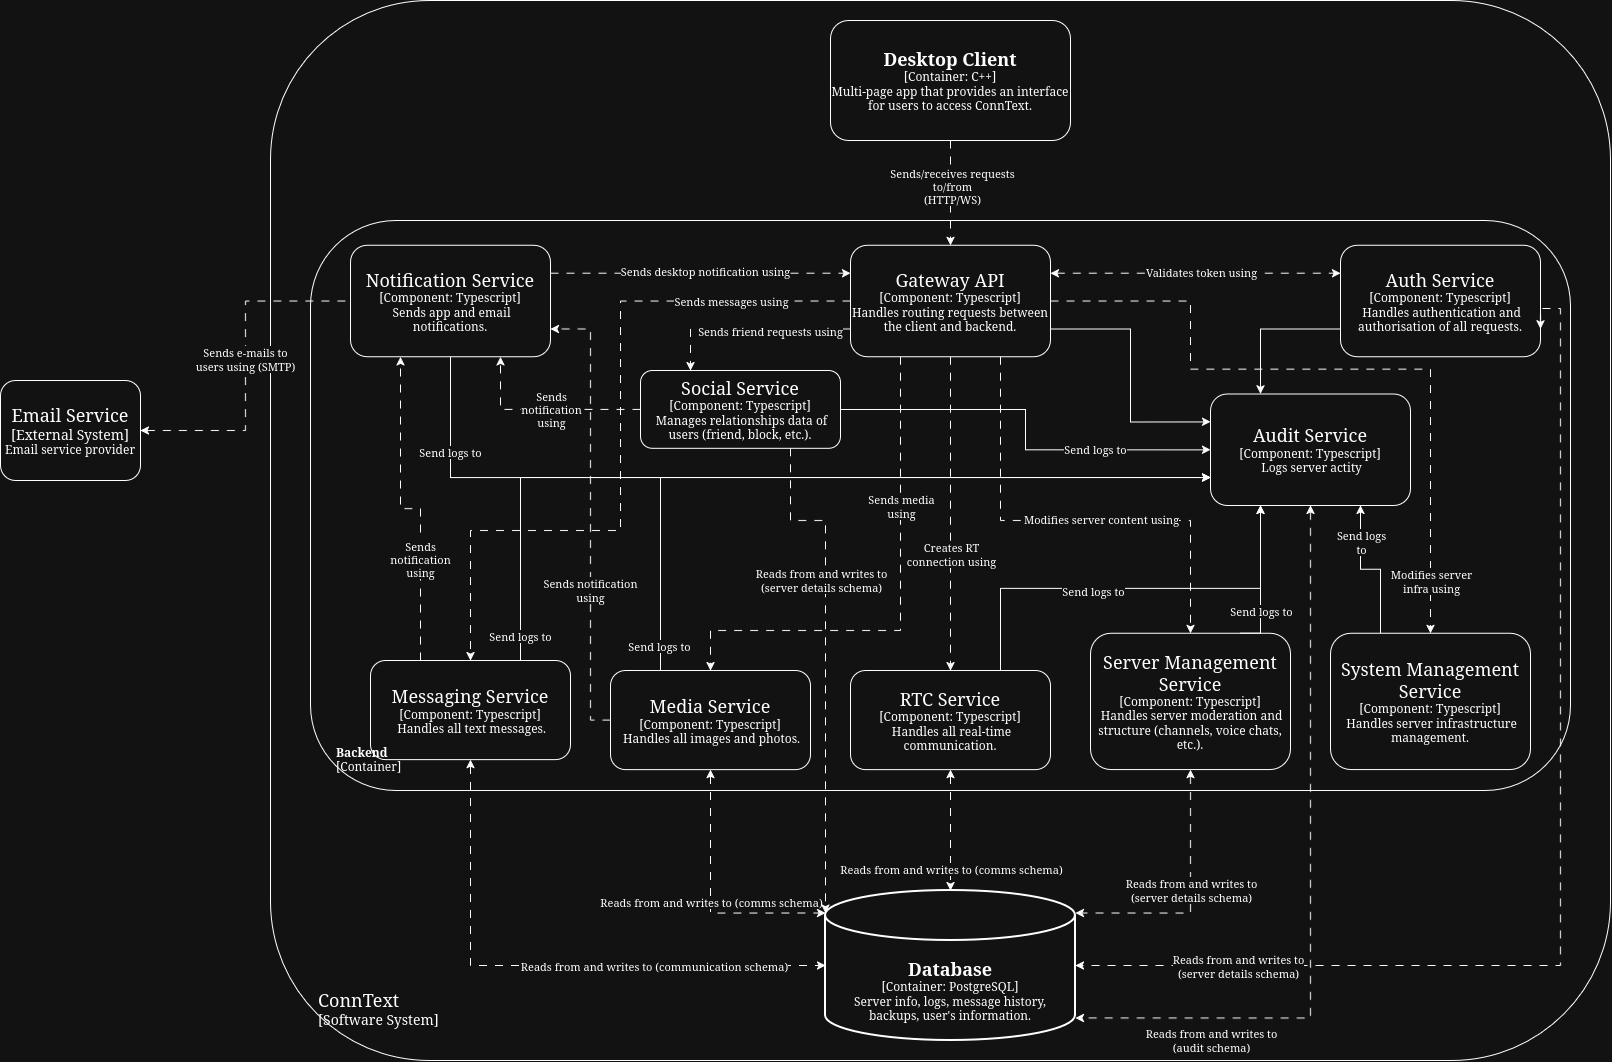
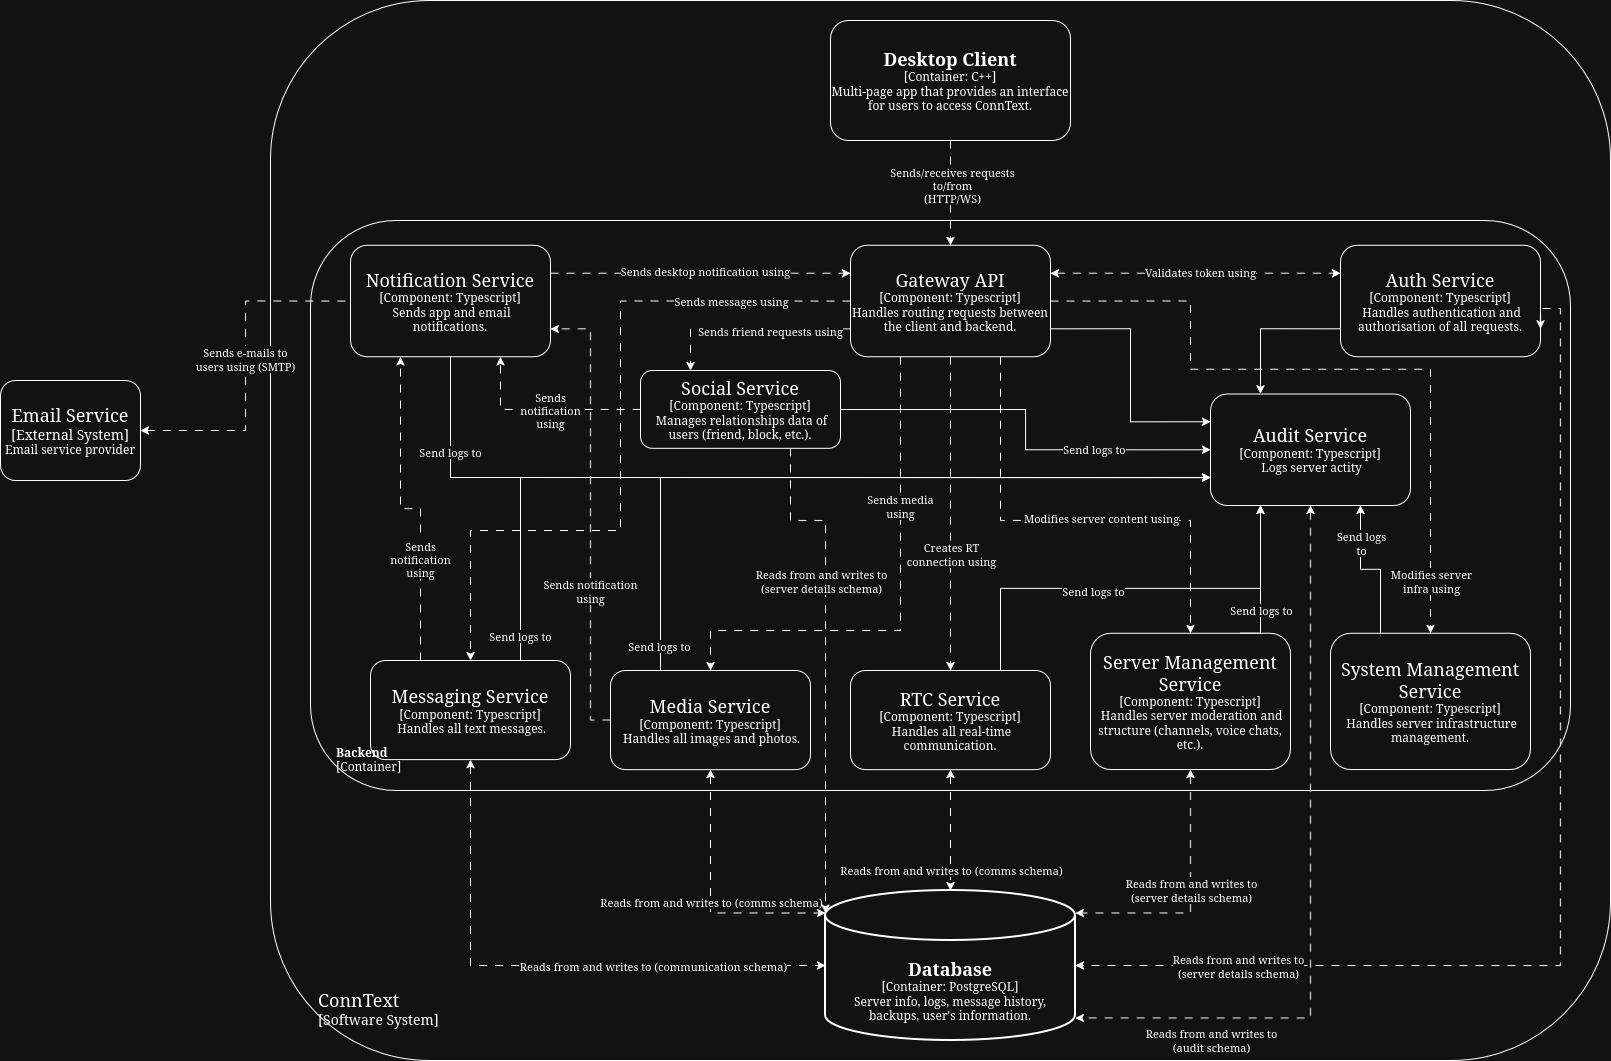
Fable review fixes
- Fix inconsistent wording in ADR-007
- Fix grammer and spelling
- Correctly add opaque to tech stack
- Fix endpoints to work with opaque
- Fix refresh endpoint
- Add conflict endpoint for friend requests

diff --git a/Design/ADRs/ADR-008.md b/Design/ADRs/ADR-008.md
@@ -1,0 +1,27 @@
+# ADR-008: OPAQUE for Zero-Knowledge Password Authentication
+
+## Status
+Accepted
+
+## Context
+ConnText uses a home server identity model (ADR-001) where users authenticate with their home server using a password. In the standard password-over-TLS approach, the client sends the plaintext password to the server, which hashes and verifies it. While TLS protects the password in transit, the server sees the plaintext password on arrival. A malicious or compromised server operator could log passwords before hashing.
+
+For a self-hosted platform where users may not control or fully trust the server infrastructure, this is a risk. The server should be unable to learn the password even if running modified code.
+
+## Decision
+ConnText will use the OPAQUE protocol (RFC 9807) for password authentication, implemented via the opaque-ke library in both the SDK and the server. The password never leaves the client device at any point.
+
+Registration and login each require two round trips to the same endpoint. The SDK will handle the multi-step exchange.
+
+After successful OPAQUE authentication, the server issues JWT access and refresh tokens for subsequent API requests. 
+
+## Alternatives Considered
+- **Password over TLS with server-side Argon2id hashing:** Simple and widely used. The password is protected in transit by TLS, and Argon2id makes brute-forcing stolen hashes expensive. However, the server sees the plaintext password on every login, which is a trust assumption ConnText's self-hosted model should not require.
+- **SRP (Secure Remote Password):** An older zero-knowledge protocol used by ProtonMail and 1Password. Same core property as OPAQUE (server never sees the password), but OPAQUE has stronger security properties and is the newer IETF standard (RFC 9807 vs SRP's RFC 2945 from 2000).
+
+## Consequences
+- The server never receives, processes, or stores the plaintext password.
+- The ERD's Users.Password_Hash column becomes an OPAQUE registration record, not a traditional password hash.
+- Registration and login each require two HTTP round trips to the same endpoint, handled transparently by the SDK.
+- opaque-ke is required in both the SDK and the server.
+- Account recovery changes: the server cannot verify an old password, so password reset flows must be designed around OPAQUE's constraints.

diff --git a/Planning/TechStack.md b/Planning/TechStack.md
@@ -13,7 +13,8 @@ The ConnText project is built using a combination of technologies, the ones used
 | Media Processing   | FFmpeg                                         | Media encoding/decoding support               |
 | Storage            | SQLite                                         | For cache, local media, user data, etc.       |
 | Transport Security | rustls (via reqwest)                           | For secure communication                      |
-| Networking         | reqwest + tokio-tungstenite + opaque-ke        | For server communication                      |
+| Networking         | reqwest + tokio-tungstenite                    | For server communication                      |
+| Auth / Security    | oauth2 + jsonwebtoken + opaque-ke              | User authentication                           |
 | E2E Encryption     | OpenMLS                                        | For secure end-to-end encryption              |
 | Language Bindings  | UniFFI (Kotlin, Swift, Python) + C FFI         | Exposes SDK to other languages                |
 
@@ -36,7 +37,7 @@ The ConnText project is built using a combination of technologies, the ones used
 | Web Server         | Express.js                     | REST API support for auth or file management |
 | Database           | PostgreSQL                     | Structured storage for accounts, metadata    |
 | File Storage       | fs (built-in)                  | For uploads or shared media                  |
-| Auth / Security    | oauth2-server + jsonwebtoken   | User authentication                          |
+| Auth / Security    | oauth2-server + jsonwebtoken + opaque-ke | User authentication                |
 | Realtime Messaging | ws + http                      | Server fallback for signaling or messaging   |
 | Media Processing   | FFmpeg (fluent-ffmpeg) + Sharp | Media encoding/decoding/modification support |
 | API Documentation  | OpenAPI (Swagger UI)           | For the exposed APIs                         |

diff --git a/Design/Architecture/ArchitectureNotes.md b/Design/Architecture/ArchitectureNotes.md
@@ -21,3 +21,6 @@ We use this instead of a mesh network for two reasons: privacy, as participants 
 ## Encryption Notes
 - Content field contains ciphertext for E2EE channels (ADR-005).
 - For local search indexing of E2EE messages the data must be encrypted at rest.
+
+## Websocket Use
+The use of websockets will be found as we implement the system, so deferring for now.

diff --git a/Design/ADRs/ADR-007.md b/Design/ADRs/ADR-007.md
@@ -17,7 +17,7 @@ For calls in E2EE channels, an additional encryption layer is applied using WebR
 
 ## Alternatives Considered
 - **Peer-to-peer mesh:** Each participant connects directly to every other participant. Exposes every participant's IP address to all others, enabling targeted DDoS attacks. This scales poorly and each client needs to upload a separate stream per participant, and consumer connections degrade around 4-6 participants. NFR-CAP-03 requires 10 concurrent video streams per channel, which mesh cannot reliably support.
-- **Multi-Point Control Unit (MCU):** The MCU mixes all incoming streams into a single stream for each participant. This allows for E2EE, but the server can't access the content of the call, violating NFR-SEC-01. Though the server must do much more which go against NFR-COMPA-06a and limits scalability. The MCU is also more complex to implement and maintain than an SFU.
+- **Multi-Point Control Unit (MCU):** The MCU mixes all incoming streams into a single stream for each participant. Mixing requires decoding the media, so the server must decrypt and access the content of the call. This makes MCU fundamentally incompatible with E2EE channels (ADR-005 / NFR-SEC-01c). Additionally, the decoding and re-encoding workload goes against NFR-COMPA-06a and limits scalability. The MCU is also more complex to implement and maintain than an SFU.
 
 ## Consequences
 - Participants only see the server's IP address, never each other's.